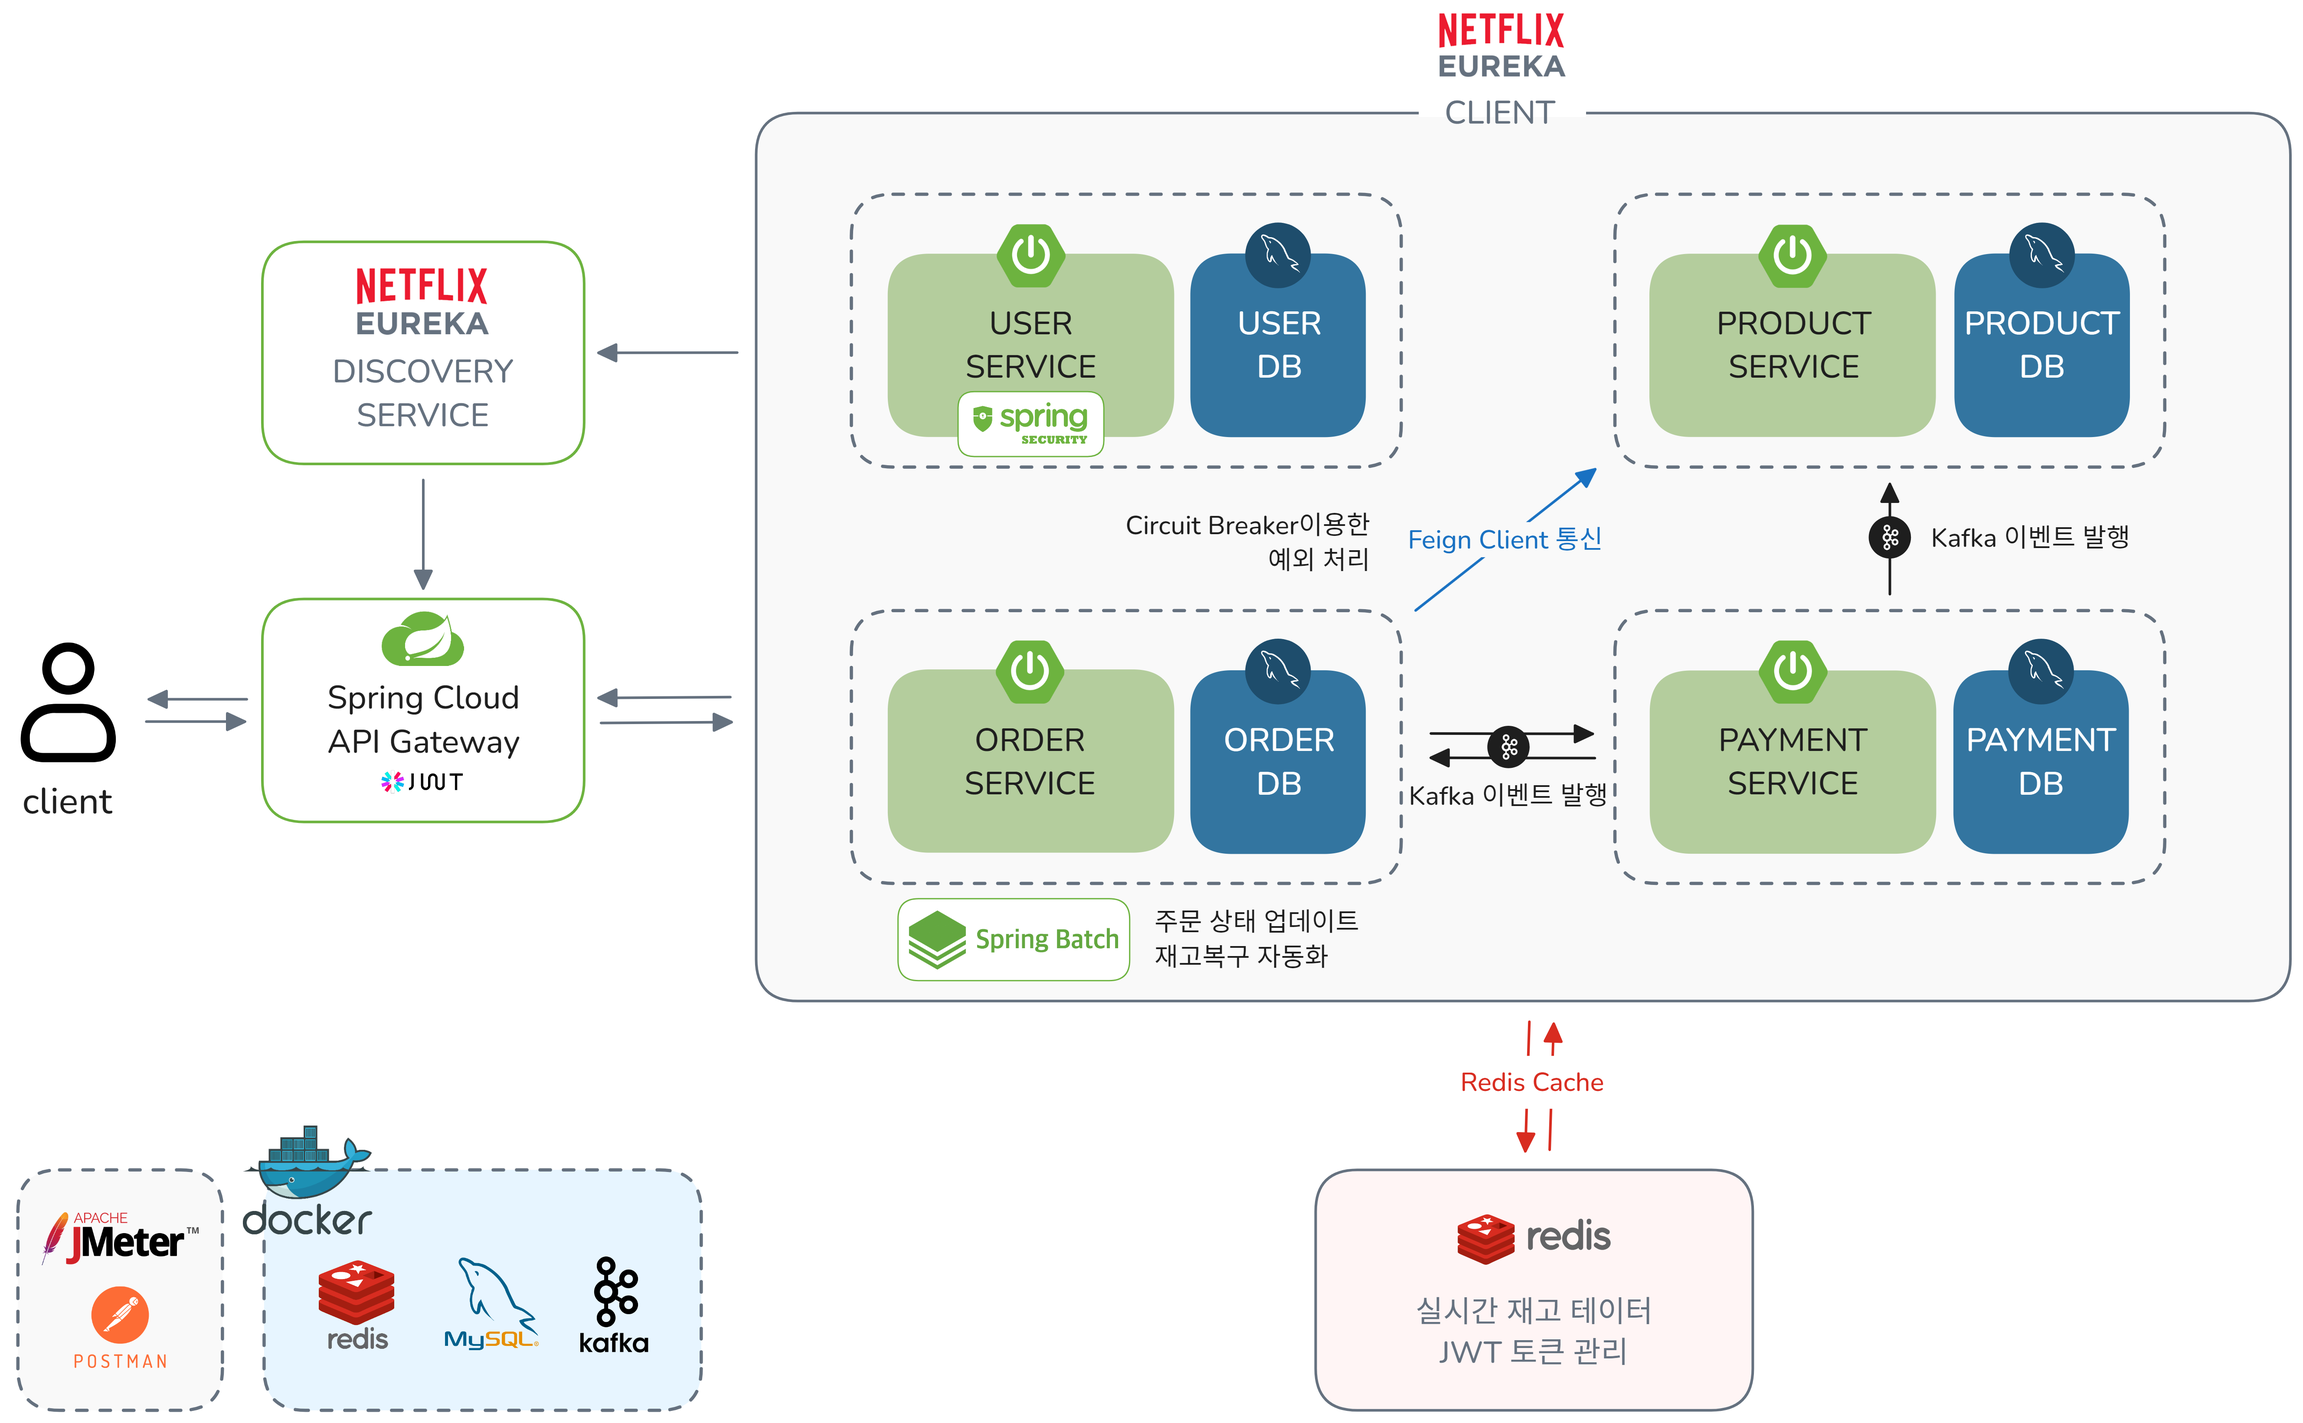
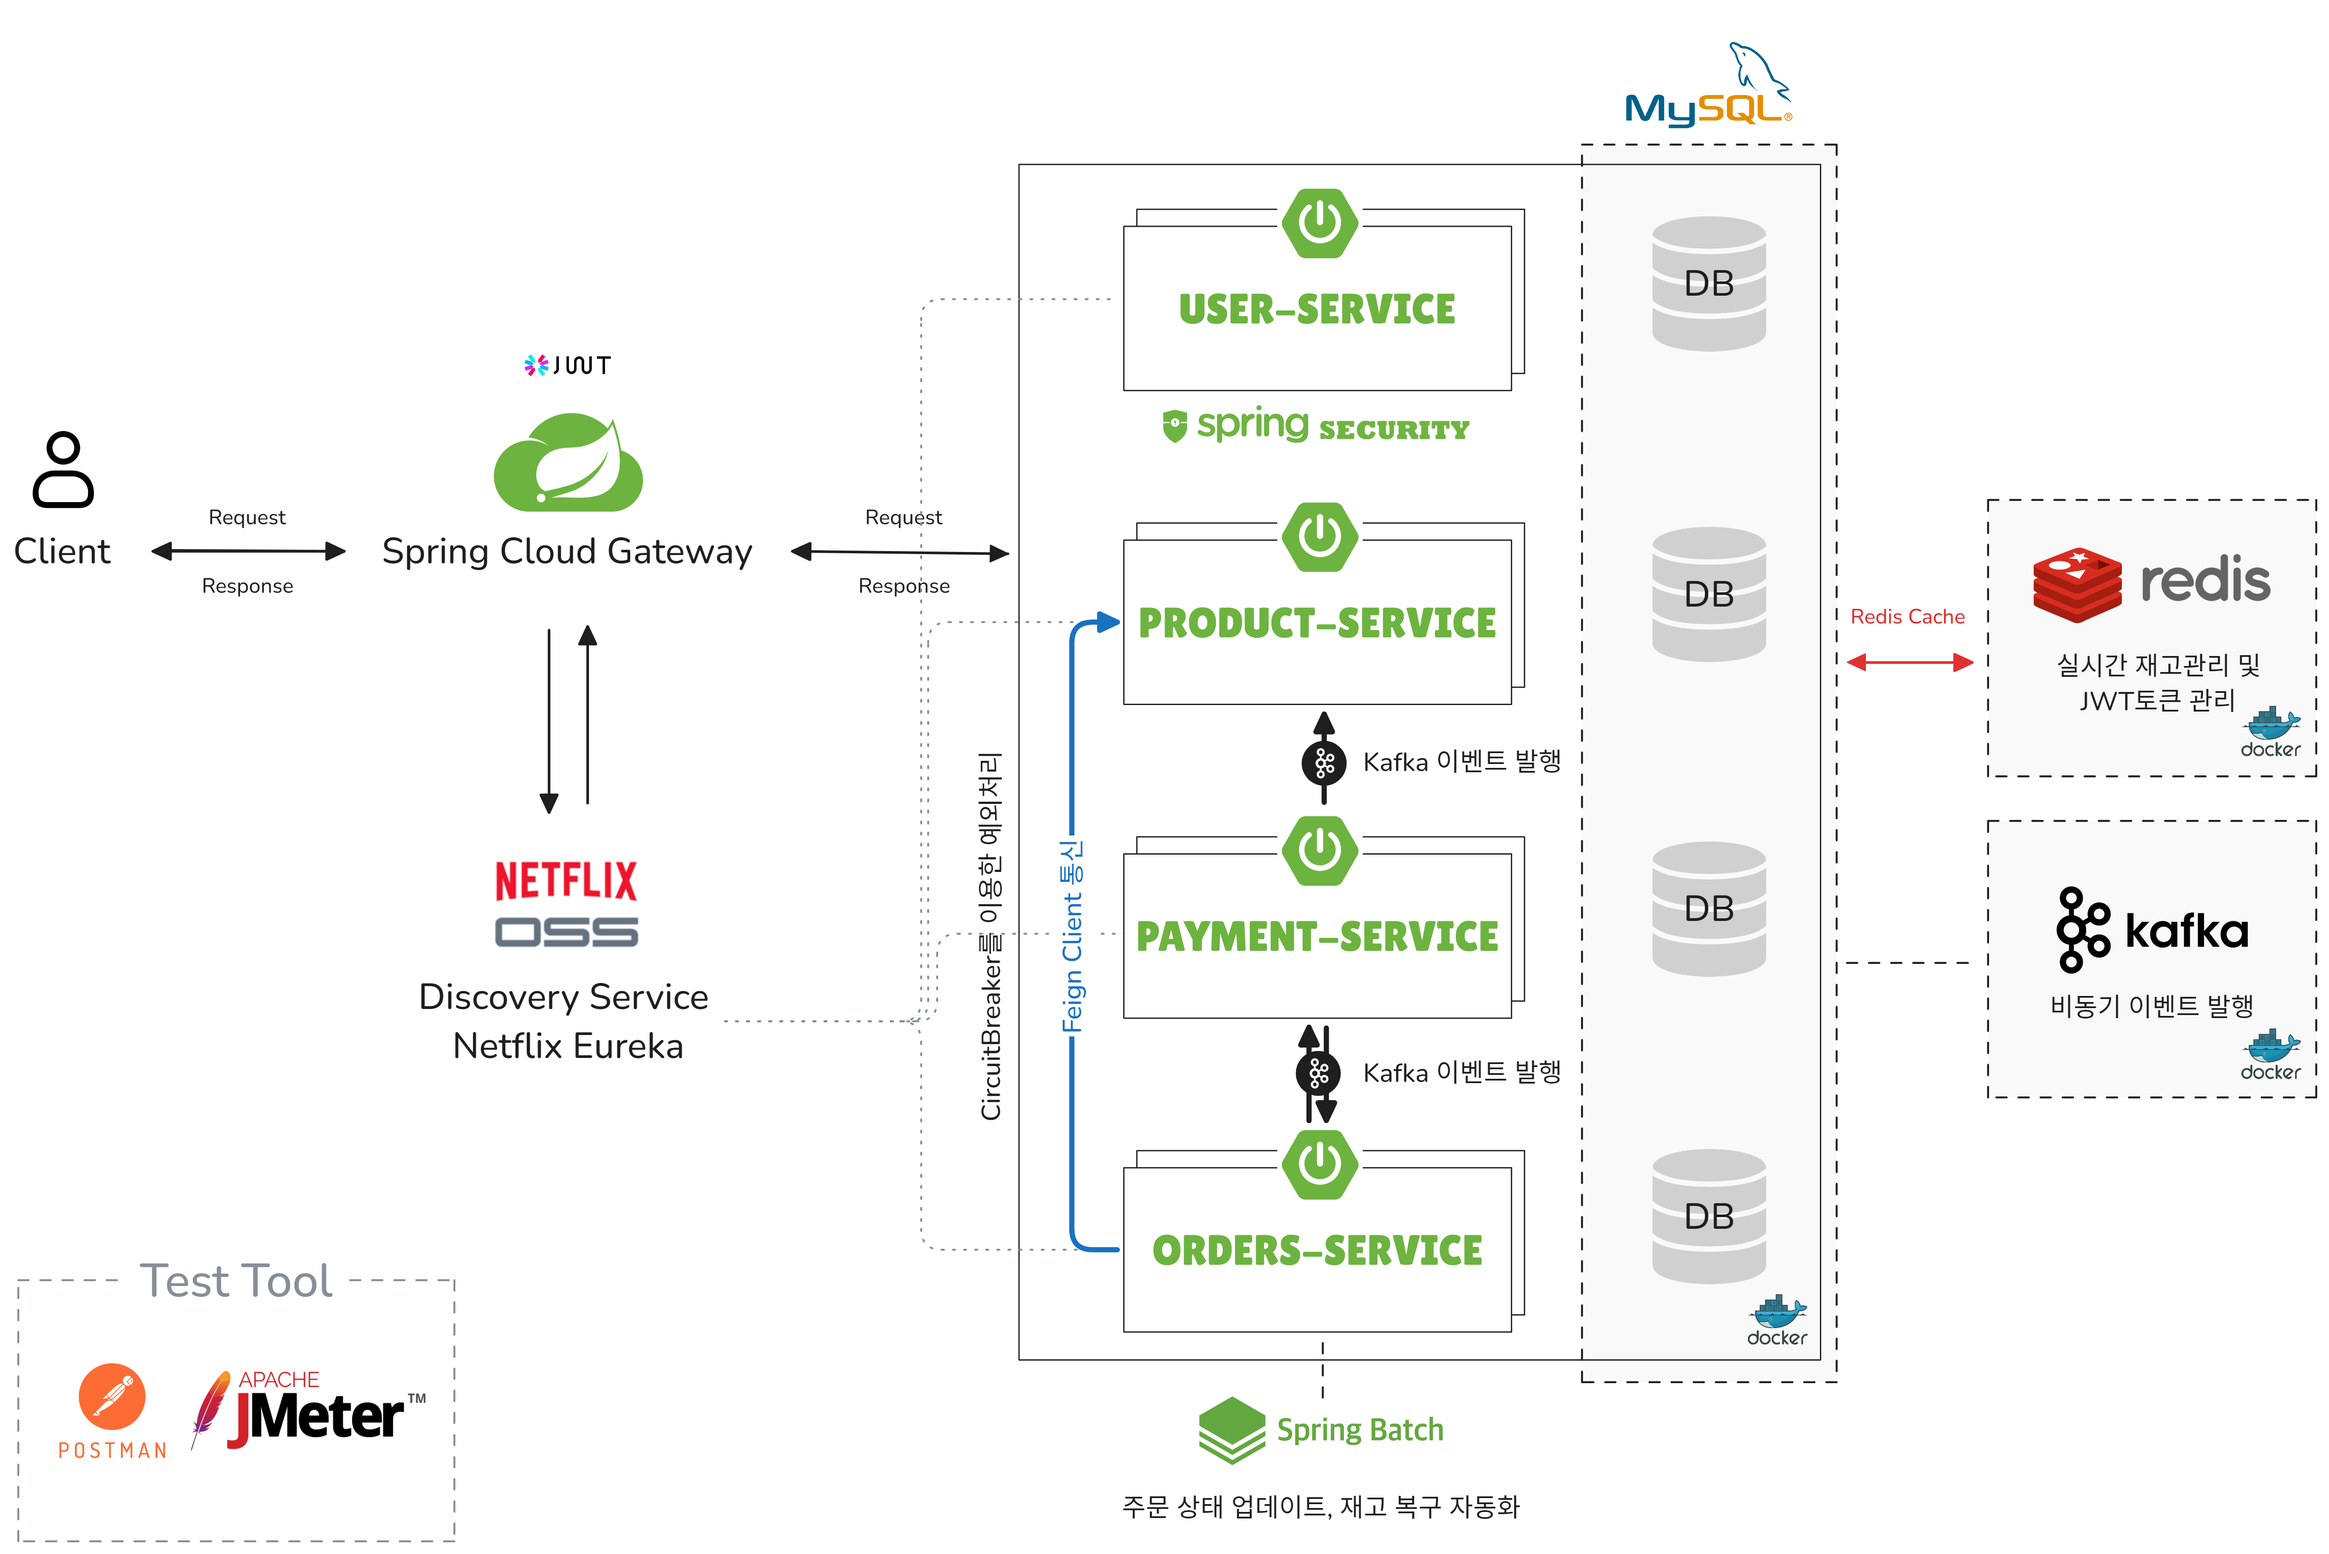
README

diff --git a/README.md b/README.md
@@ -1,90 +1,85 @@
-# 🛍 선착순 구매
-Spring boot 기반의 **대규모의 트래픽을 처리해 선착순 구매 기능을 지원**하는 E-commerce 서비스 입니다.  
-**Redis와 Kafka** 를 활용해 **동시성 처리** 와 빠른 주문 처리를 구현하였으며, **캐싱을 통한 실시간 재고 관리** 기능을 제공합니다.
-또한 **MSA(Microservices Architecture)** 를 도입하여 각 서비스의 확장과 유지보수성을 향상시켰습니다.
+# 🛍 예약 구매 서비스
+**대규모의 트래픽을 처리해 선착순 구매 기능을 지원**하는 E-commerce 서비스  
+일반적인 상품 구매 기능과, 한정된 수량의 상품을 특정 시간에 오픈하여 선착순으로 예약 구매할 수 있는 기능을 제공  
+- 개발 기간 : 2024.08.07 ~ 2024.09.06
+- API 명세서 [(바로가기)](https://documenter.getpostman.com/view/30578335/2sA3s3GqpS)  
+- 테스트 시나리오 [(바로가기)](https://documenter.getpostman.com/view/30578335/2sA3s3GqpS)
 
-일반적인 상품 구매 기능과, 한정된 수량의 상품을 특정 시간에 오픈하여 선착순으로 구매할 수 있는 기능을 제공합니다.  
+## 목차
+- [Docs](#docs)
+- [프로젝트 아키텍처](#프로젝트-아키텍처)
+- [사용 기술](#사용기술)
+- [구현 기능](#구현기능)
+- [기술적 의사 결정](#기술적-의사-걀정)
+- [트러블슈팅](#트러블슈팅)
+  - 실시간 재고 캐싱 처리
+  - kafka 메시징 처리
+  - 동시성 문제 해결
+  - 사용자 보안 강화
+  - 마이크로소프트 간 장애 전파 방지
+- [버전](#버전)
 
+## Docs
+Project Docs [(바로가기)]()  
+API Reference [(바로가기)]()
 
-- 개발 기간 : 2024.08.07 ~ 2024.09.04
-- [API 명세서](https://documenter.getpostman.com/view/30578335/2sA3s3GqpS)  
+## 프로젝트 아키텍처
+### ERD 
+<details>
+<summary>자세히보기</summary> 
 
-## Project Archictecture
+![ERD](./img/erd.png)  
+</details>
+ 
+### 서비스 아키텍처
 ![Architecture](./img/architecture.png)  
 
-## ERD
-![ERD](./img/erd.png)  
 
-## Tech Stack
-- IDE : IntelliJ IDEA Community
-- Java : JDK 17
-- Spring Boot / Spring Security ： 3.3.0
-- JWT : 0.12.3
-- Gradle : 7.3.2
-- MySQL :  9.0.1
-- Redis : 7.4.0
-- Kafka : 2.8.1
-- Docker : 27.0.3
-- Discoverey service : Netflix Eureka
-- API Gateway : Spring Cloud Gateway
-- SMTP: Spring Boot Mail Starter
+## 사용기술
+### IDE  
+<img src="http://img.shields.io/badge/intellijidea-000000?style=for-the-badge&logo=Python&logoColor=white">  
+
+### 언어 / 프레임워크  
+<img src="http://img.shields.io/badge/java-007396?style=for-the-badge&logo=java&logoColor=white">
+<img src="http://img.shields.io/badge/gradle-02303A?style=for-the-badge&logo=gradle&logoColor=white">
+<img src="http://img.shields.io/badge/springboot-6DB33F?style=for-the-badge&logo=SPRINGBOOT&logoColor=white">  
+
+
+### 인증/인가  
+<img src="http://img.shields.io/badge/Spring Security-6DB33F?style=for-the-badge&logo=SpringSecurity&logoColor=white">
+<img src="http://img.shields.io/badge/JSON Web Token-000000?style=for-the-badge&logo=jsonwebtokens&logoColor=white">
+<img src="http://img.shields.io/badge/api Gateway -6DB33F?style=for-the-badge&logo=spring&logoColor=white" alt="">  
+
+
+### 데이터베이스  
+<img src="http://img.shields.io/badge/mysql-4479A1?style=for-the-badge&logo=mysql&logoColor=white">
+<img src="http://img.shields.io/badge/redis-FF4438?style=for-the-badge&logo=redis&logoColor=white">
+
+### 메시징
+<img src="http://img.shields.io/badge/kafka-231F20?style=for-the-badge&logo=apachekafka&logoColor=white">
+
+### 컨테이너  
+<img src="http://img.shields.io/badge/docker-2496ED?style=for-the-badge&logo=docker&logoColor=white">  
+
+### 기타
+<img src="http://img.shields.io/badge/Netflix Eureka-E50914?style=for-the-badge&logo=netflix&logoColor=white">
+<img src="http://img.shields.io/badge/google smtp-4285F4?style=for-the-badge&logo=google&logoColor=white">
+
 
 ## 구현기능
-### **OpenFeign과 Resilience4j를 활용한 마이크로서비스 간 통신**
-  - 신뢰성 있는 통신 및 장애 복원력 강화
 
-### **KafKa를 사용한 비동기 이벤트 처리**
-  - 비동기적인 메시지 브로커 역할을 하는 Kafka를 통해 마이크로서비스 간의 느슨한 결합을 유지하며 이벤트 기반 아키텍처를 구현.
-  - 비즈니스 이벤트 처리 시 Kafka의 높은 처리량을 활용하여 성능 최적화.
-
-### **Redisson 분산락을 통한 동시성 문제 해결**
-  - Redis 기반의 Redisson Lock을 사용하여 재고나 주문 처리 시 발생할 수 있는 동시성 문제를 방지.
-
-### **Redis 기반 실시간 캐싱 및 재고 관리**
-  - Cache-Aside / Write-Behind 캐시 전략을 통해 대규모 트래픽에서도 빠르고 안정적인 재고 조회 및 관리
-
-### **Api Gateway를 통한 라우팅 및 인가 기능 구현**
-  - 클라이언트의 요청을 적절한 마이크로서비스로 라우팅하고, 부하를 분산시켜 시스템 효율성을 높임.
-  - Gateway 레벨에서 JWT 토큰 검증을 통해 비인가 사용자의 접근을 차단.
-
-### **Netflix Eureka를 활용한 서비스 등록 및 디스커버리**
-  - Eureka를 통해 마이크로서비스 간의 동적 등록 및 검색이 가능하도록 설정.
-
-### **[JWT 토큰 발급을 통한 무상태 인증 시스템 구현](https://jjuya.tistory.com/197)**
-  - Spring Security와 JWT(Json Web Token)를 사용하여 사용자 인증을 처리하며, 무상태(stateless) 방식으로 세션 없이 인증을 유지
-
-### **spring batch와 스케쥴러를 이용한 배송 상태 및 재고 복구 관리**
-  - 정기적으로 배송 상태 업데이트 및 재고 복구 작업을 자동화
-
-### **이메일 인증을 통한 회원가입**
-  - Google SMTP를 활용하여 회원가입시 이메일 인증 진행
-
-### **[AES 기반 양방향 암호화를 통한 보안 강화](https://jjuya.tistory.com/198)**
-  - 중요한 사용자 정보나 민감한 데이터를 안전하게 보호할 수 있도록 개인정보 양방향 암호화 처리.
-
+## 기술적 의사 결정
 
 ## 트러블슈팅
-### **동시성 문제 해결**
-  - Redis의 Redisson Lock을 사용하여 분산 환경에서도 안전하게 동시성 제어 구현
+### 실시간 재고 캐싱 처리
 
-### **보안 강화를위한 Refresh 토큰 추가 발급**
-  - JWT 기반 인증 시스템에서 Refresh 토큰을 활용하여 액세스 토큰이 만료된 경우 재발급을 처리. 이를 통해 사용자 로그인 세션의 지속성을 유지하면서도, 보안성을 강화.
+### kafka 메시징 처리
 
-### **Circuit Breaker/ Retry 를 사용하여 마이크로 서비스 간 장애 전파방지**
-  - 시적인 장애 또는 네트워크 지연이 발생할 경우에도 자동으로 재시도를 진행
-  - 특정 마이크로서비스에서 지속적인 장애가 발생하면 그 서비스로의 요청을 차단. 이를 통해 장애가 다른 서비스로 전파되는 것을 방지
+### 동시성 문제 해결
 
+### 사용자 보안 강화
 
-## 성능개선
-### **[Redis 캐싱을 통한 성능 개선](https://jjuya.tistory.com/207)**
-  - 실시간 재고 관리 및 데이터 조회에서 Redis 캐싱을 적용하여 성능을 향상.
-  - TPS : 62.5/sec -> 94.9/sec (약  51.84%성능 개선)
-
-### **[kafka 비동기 처리로 성능개선](https://jjuya.tistory.com/209)**
-  - 기존의 동기 방식으로 OpenFeign을 통해 마이크로서비스 간 통신하던 부분을 Kafka 비동기 이벤트 처리로 전환하여 성능을 최적화.
-  - TPS : 58.8/sec -> 81.1/sec(약 37.9%성능 개선)
-
-### **상품페이지 페이징처리**
+### 마이크로소프트 간 장애 전파 방지
 
 
 ## 버전
